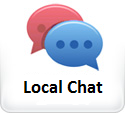
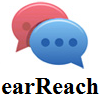
Change the app name to earReach and other stuff
Changed the app name to earReach
added simple support for setting save and cancel for now.

diff --git a/localChat/Settings.xaml b/localChat/Settings.xaml
@@ -13,8 +13,8 @@
     mc:Ignorable="d">
 	<phone:PhoneApplicationPage.ApplicationBar>
 		<shell:ApplicationBar>
-			<shell:ApplicationBarIconButton x:Name="SaveButton" IconUri="/Assets/AppBar/save.png" IsEnabled="True" Text="Save"/>
-			<shell:ApplicationBarIconButton x:Name="CancelButton" IconUri="/Assets/AppBar/cancel.png" IsEnabled="True" Text="Cancel"/>
+            <shell:ApplicationBarIconButton x:Name="SaveButton" Click="SaveButton_Click" IconUri="/Assets/AppBar/save.png" IsEnabled="True" Text="Save"/>
+			<shell:ApplicationBarIconButton x:Name="CancelButton" Click="CancelButton_Click" IconUri="/Assets/AppBar/cancel.png" IsEnabled="True" Text="Cancel"/>
 		</shell:ApplicationBar>
 	</phone:PhoneApplicationPage.ApplicationBar>
 

diff --git a/localChat/Settings.xaml.cs b/localChat/Settings.xaml.cs
@@ -46,6 +46,17 @@ namespace localChat
                 curUpTimeValue.Text = upTime.ToString();
             }
         }
+
+        private void SaveButton_Click(object sender, EventArgs e)
+        {
+            NavigationService.Navigate(new Uri("/ReadLongListPage.xaml", UriKind.Relative));
+        }
+
+        private void CancelButton_Click(object sender, EventArgs e)
+        {
+            NavigationService.Navigate(new Uri("/ReadLongListPage.xaml", UriKind.Relative));
+        }
+        
     }
 
 }
